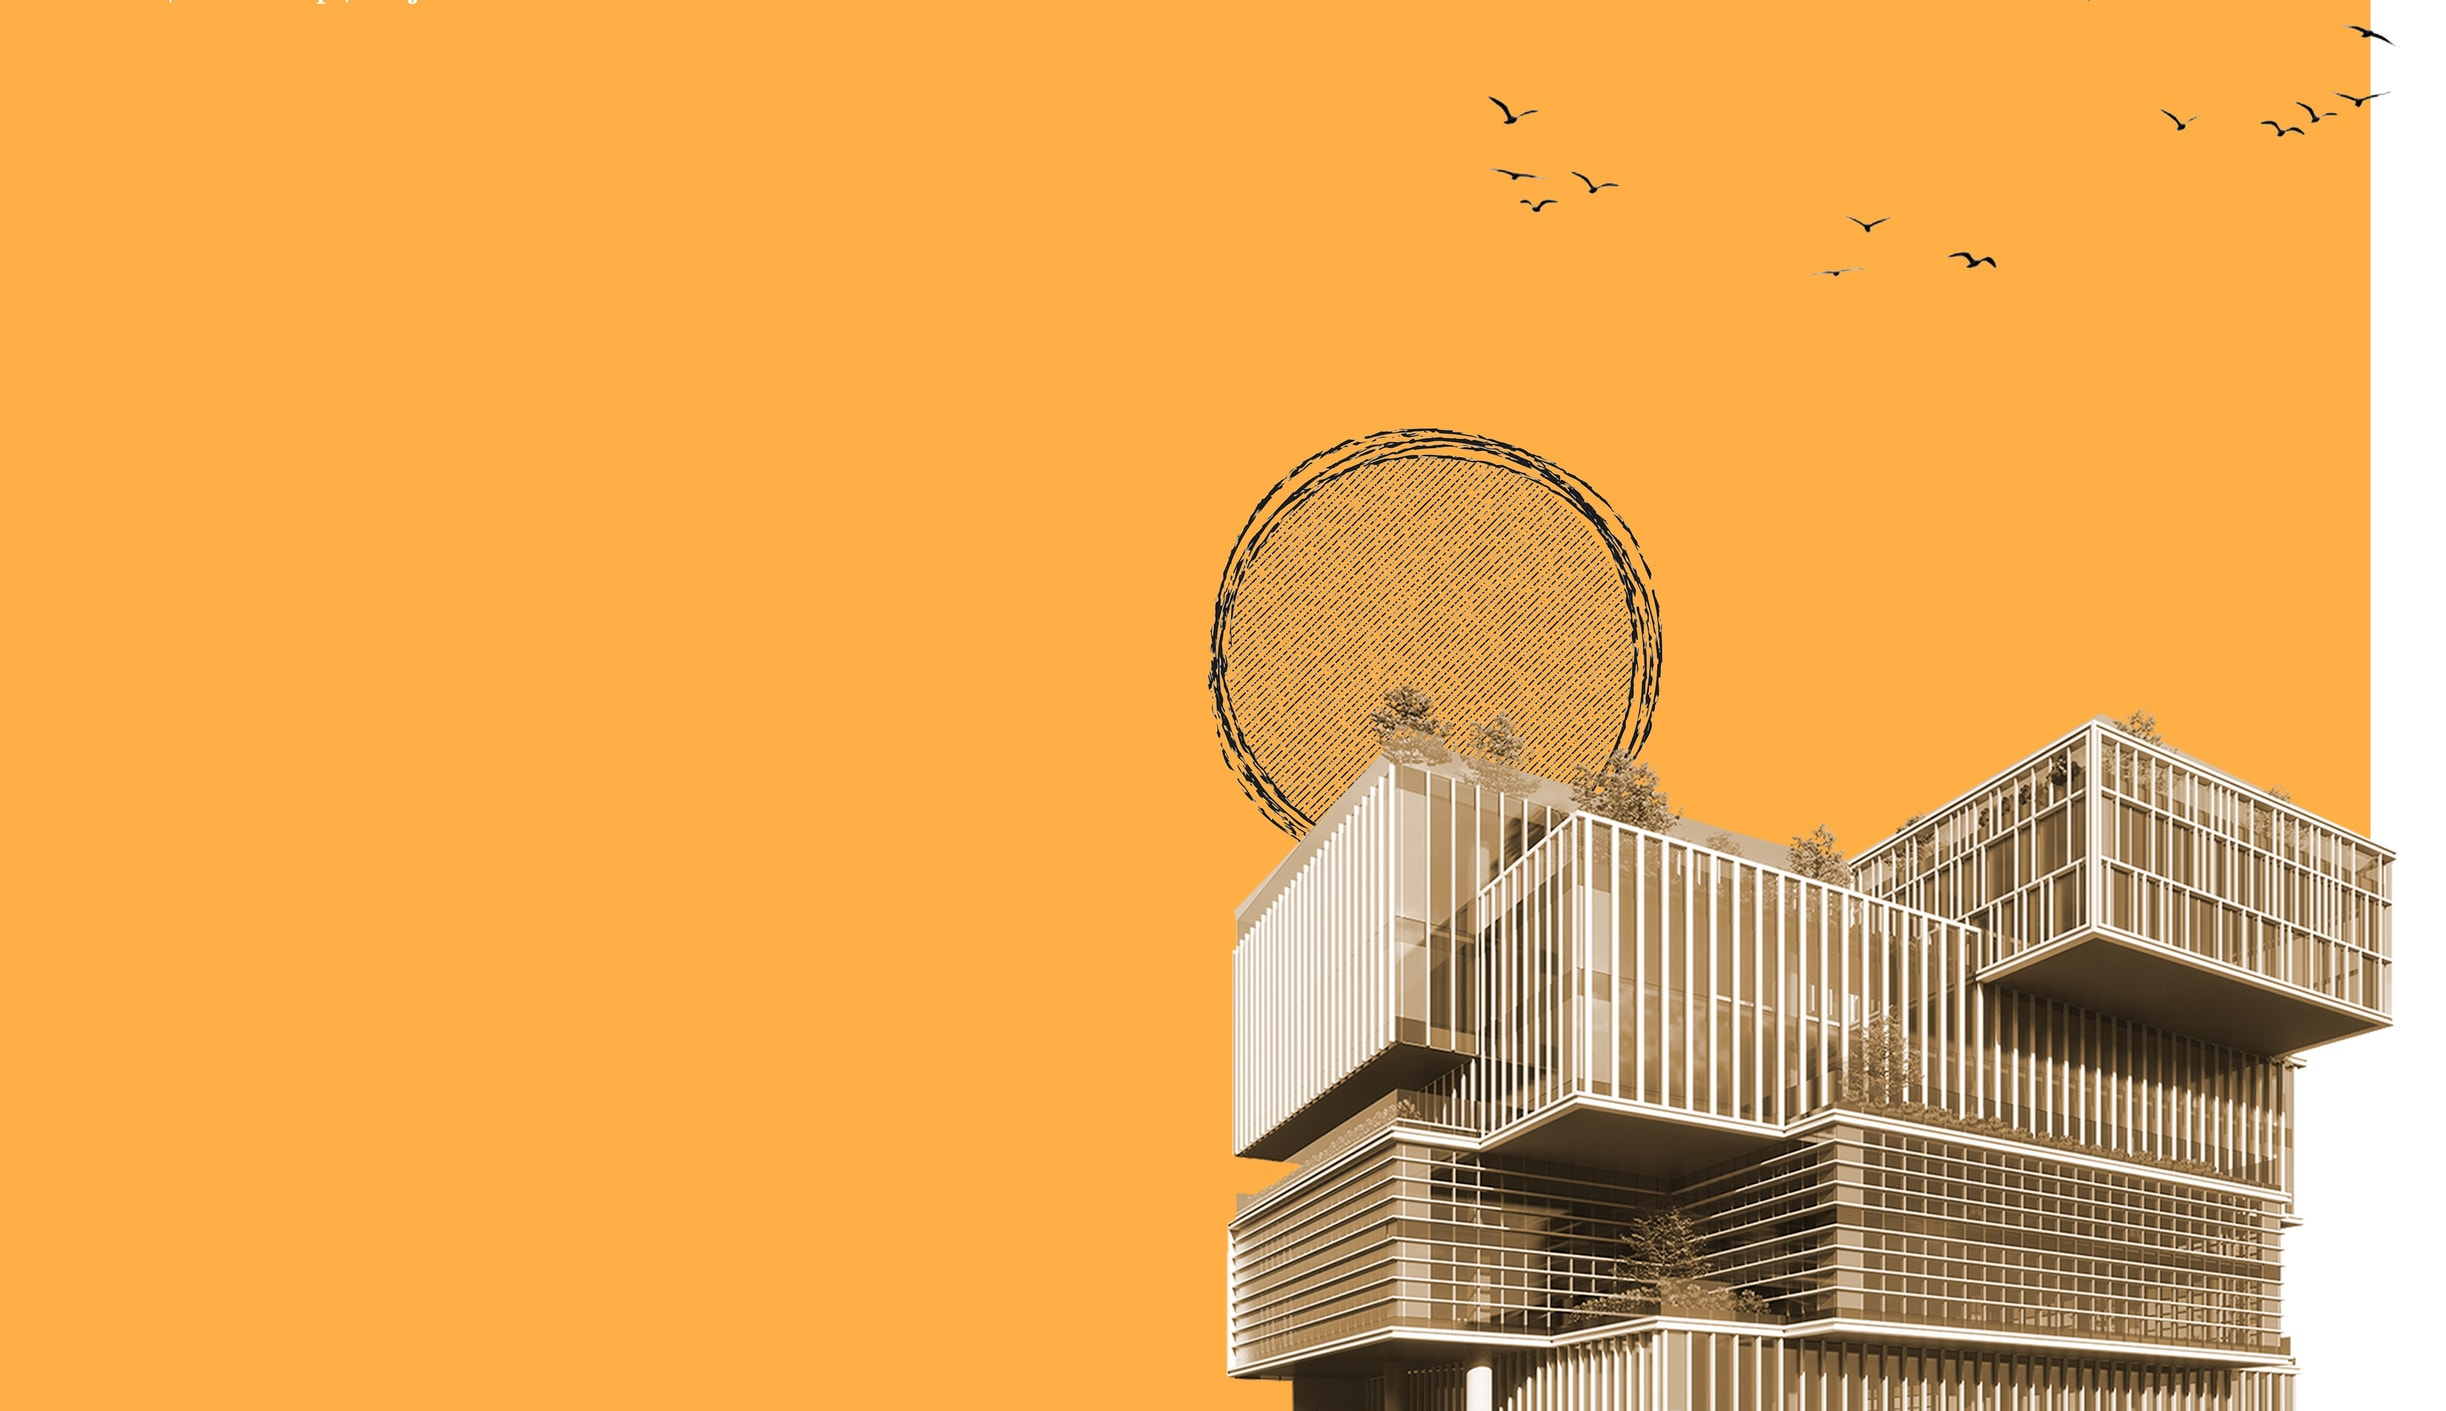
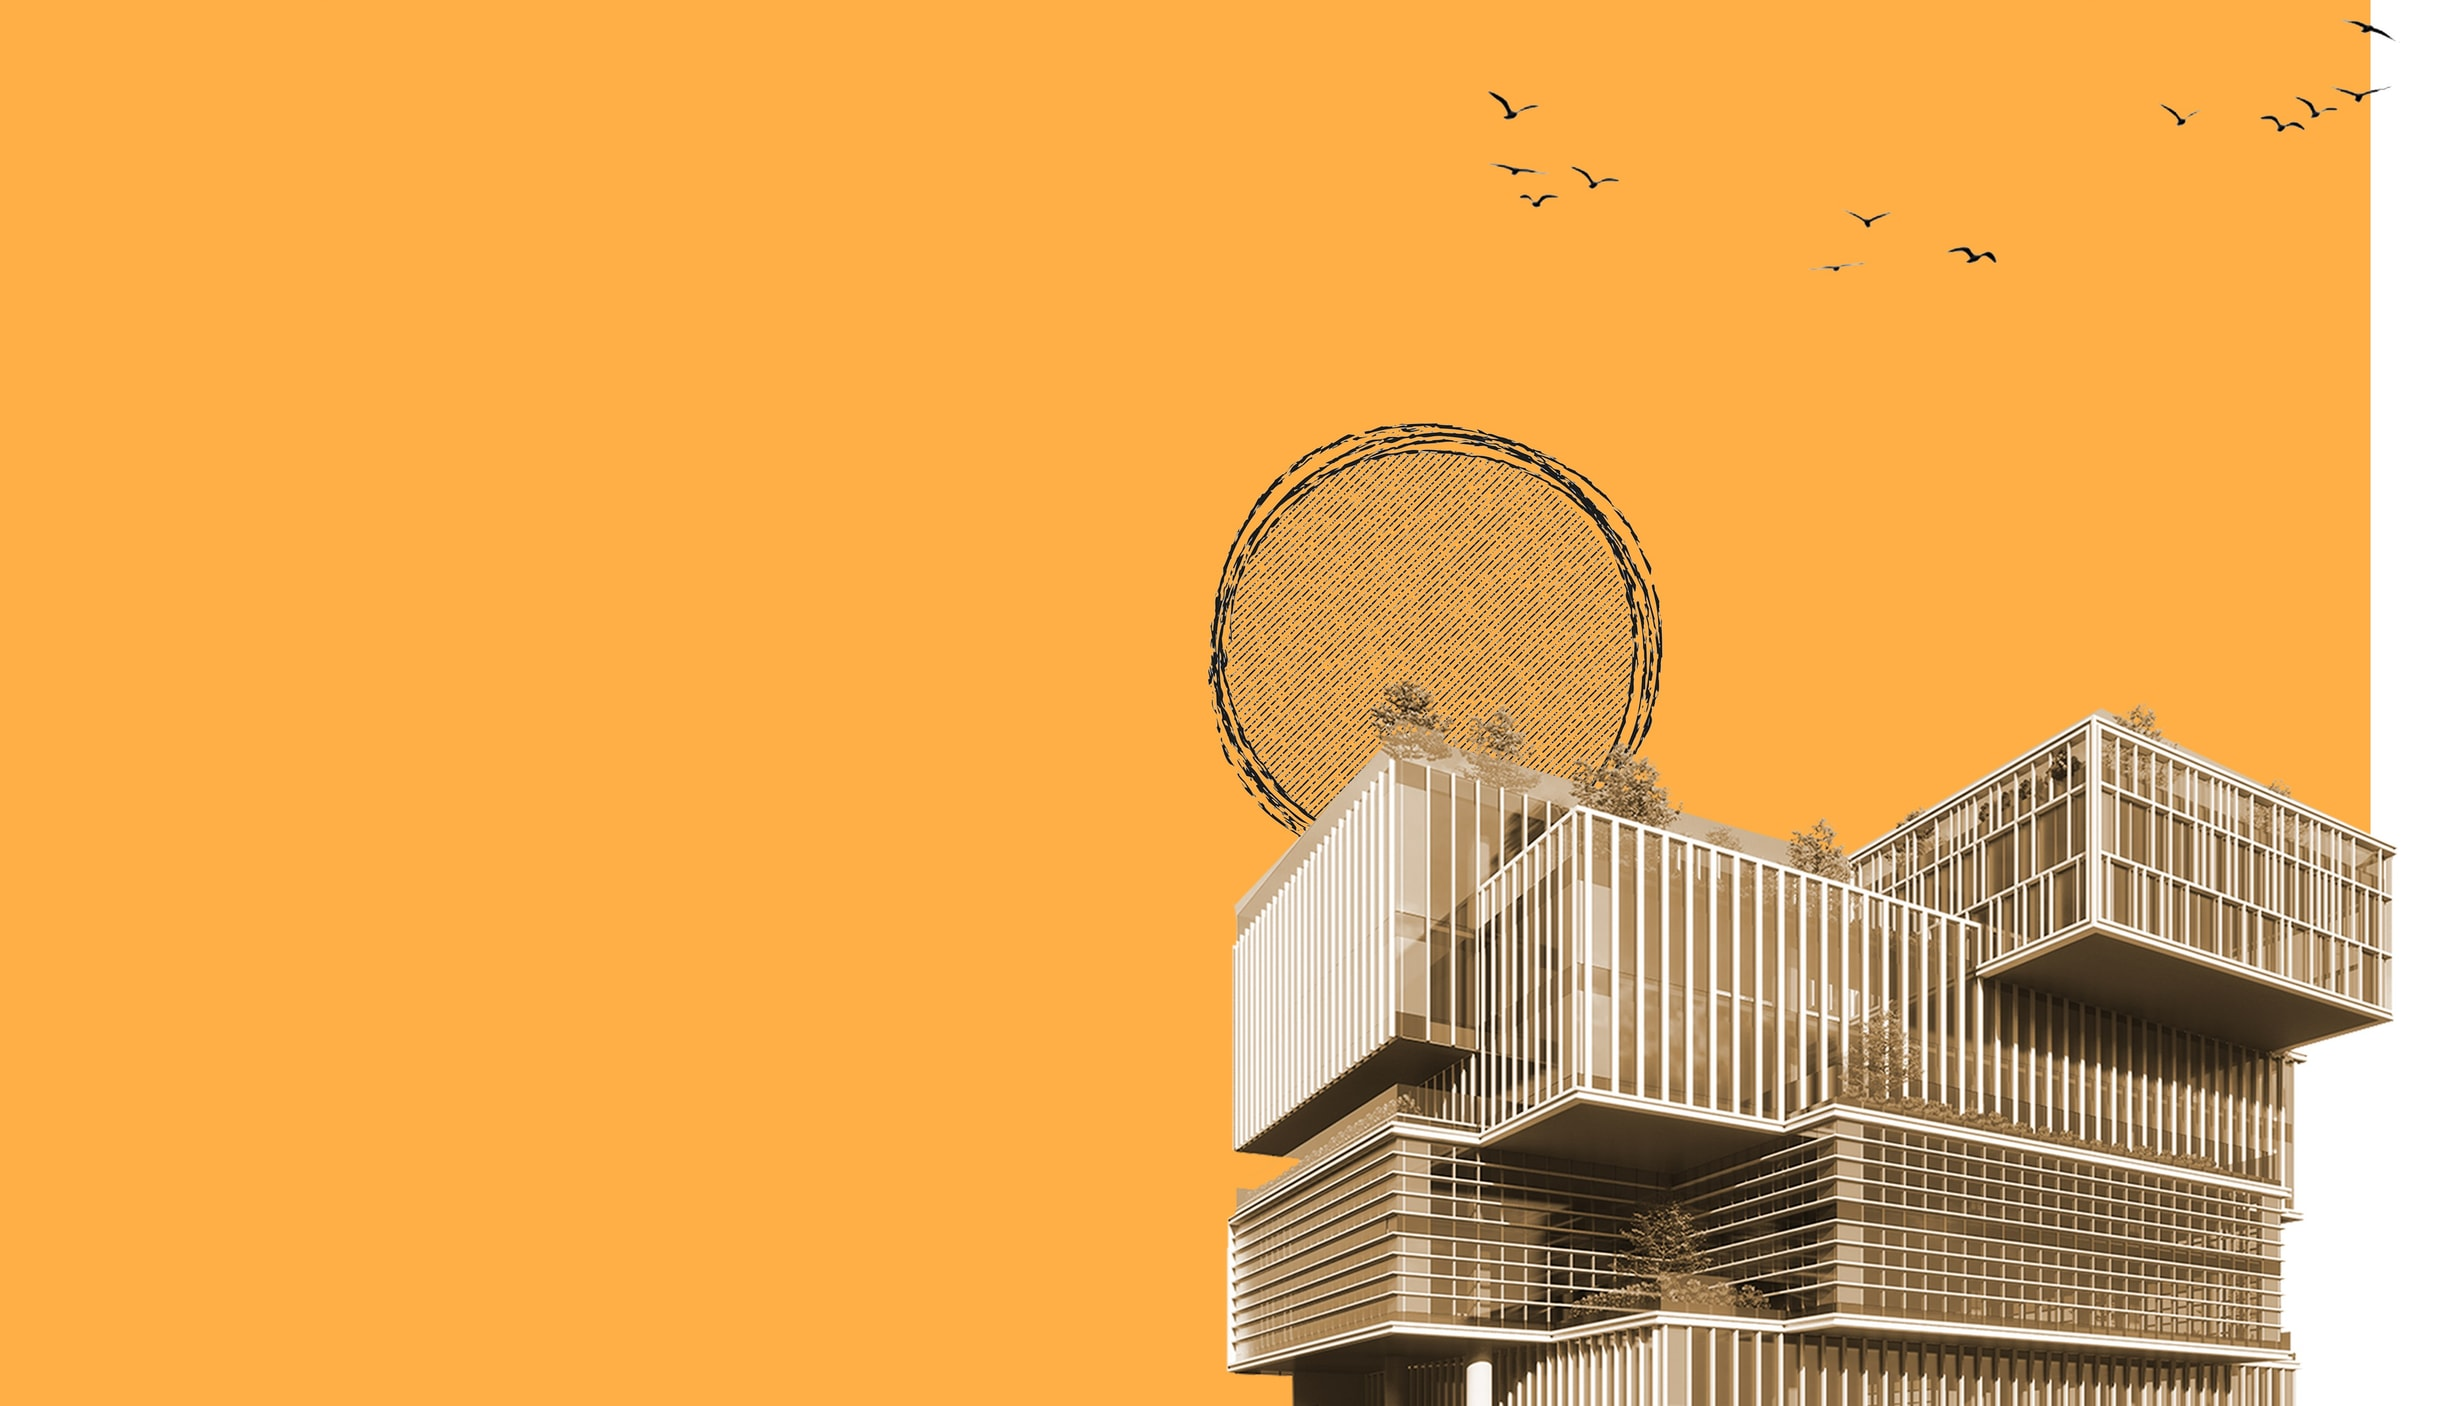
Clean up Commercial hero: remove clipped text, fix letterbox color
The source export had its title text clipped to a barely-visible
sliver at the top edge; cropped it out. On wide/short viewports
object-fit:contain letterboxes the image left/right, which showed
an orange strip past the white margin on one side while blending
invisibly on the other. Made both margins clean white via an
aspect-ratio media query (only kicks in above the image's own
ratio, so mobile's top/bottom letterbox stays seamless orange).
Replaced the lost title with a proper "Commercial" heading in the
site's Playfair Display type.

diff --git a/commercial.html b/commercial.html
@@ -60,6 +60,30 @@
     pointer-events:none;
   }
 
+  #commercialHero{ background:#faa945; }
+  /* on viewports wider (relative to height) than the artwork's own ratio, object-fit:contain
+     letterboxes left/right instead of top/bottom — keep that margin clean white, not orange */
+  @media (min-aspect-ratio: 1723/1000){
+    #commercialHero{ background:#ffffff; }
+  }
+
+  .hero-title{
+    position:absolute;
+    top:56px;
+    left:40px;
+    z-index:2;
+    margin:0;
+    font-family:'Playfair Display', serif;
+    font-weight:500;
+    font-size:clamp(1.6rem, 3.2vw, 2.6rem);
+    letter-spacing:.04em;
+    color:#fff;
+    text-shadow:0 2px 20px rgba(0,0,0,.2);
+  }
+  @media (max-width:768px){
+    .hero-title{ top:88px; left:24px; font-size:1.5rem; }
+  }
+
   .thesis-board{
     position:relative;
     width:100vw;
@@ -95,8 +119,9 @@
 
   <a class="back-link" href="index.html">← Back</a>
 
-  <section class="thesis-hero" id="commercialHero" style="background:#faa945;">
+  <section class="thesis-hero" id="commercialHero">
     <img src="images/commercial-hero.jpg" alt="Commercial — architecture portfolio">
+    <h1 class="hero-title">Commercial</h1>
     <div class="thesis-hero-fade"></div>
   </section>
 
